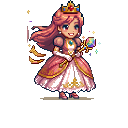
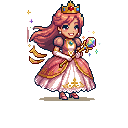
fix: pure NEAREST for wand sprites, matching mirror processing
Two-step LANCZOS+NEAREST was still introducing softness. Reverted
to identical pipeline as mirror sprites: pure NEAREST resize +
alpha threshold 128. Crisp pixel-art look, no fuzziness. ?v=5.

diff --git a/index.html b/index.html
@@ -571,8 +571,8 @@ function pixelPrincess(prop){
     // Two-frame wand idle animation (1s per frame) for settings tab
     return '<div class="princess-wrap">'
       +'<div class="princess-wand-stack">'
-      +'<img class="wand-frame f1" src="princess-wand1.png?v=4" alt="공주" draggable="false"/>'
-      +'<img class="wand-frame f2" src="princess-wand2.png?v=4" alt="공주" draggable="false"/>'
+      +'<img class="wand-frame f1" src="princess-wand1.png?v=5" alt="공주" draggable="false"/>'
+      +'<img class="wand-frame f2" src="princess-wand2.png?v=5" alt="공주" draggable="false"/>'
       +'</div>'
       +'</div>';
   }
